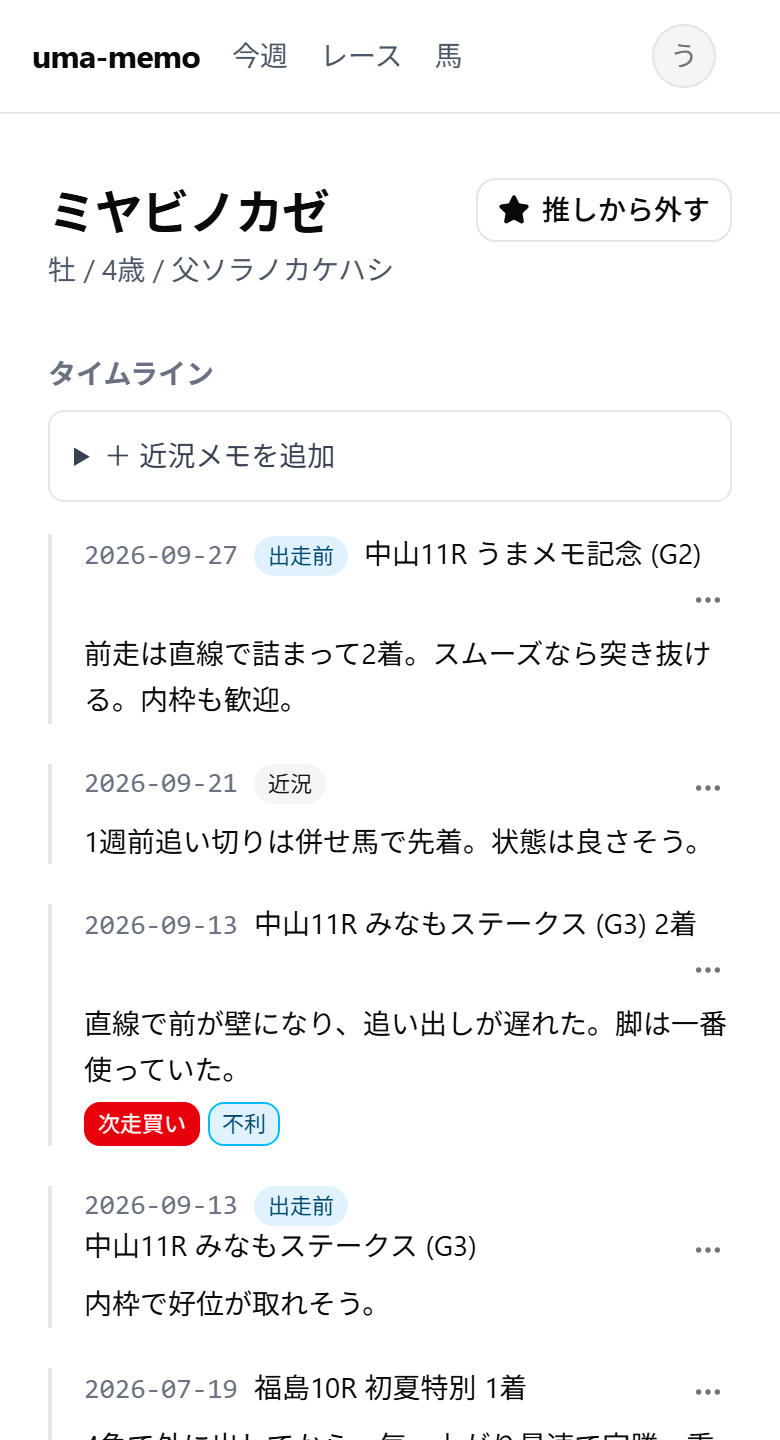
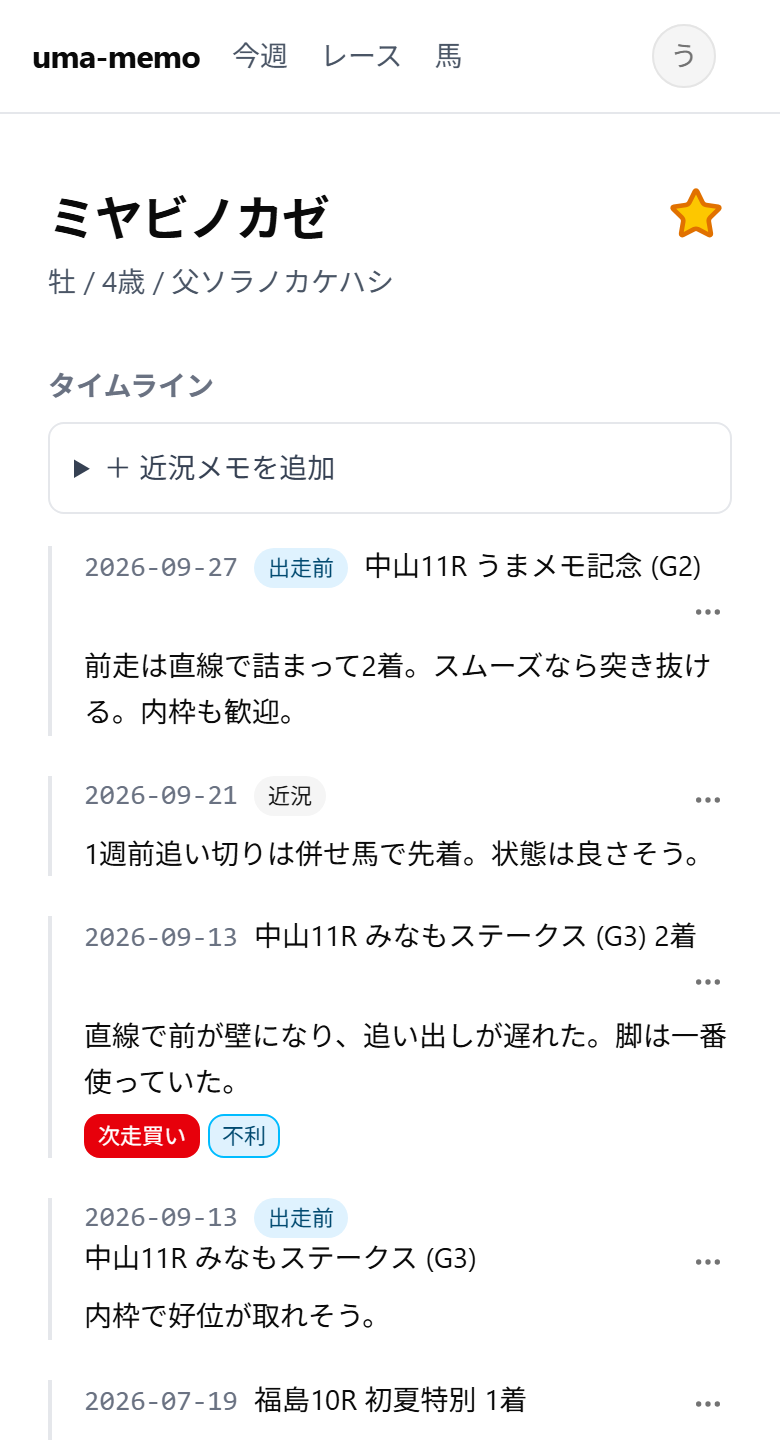
feat: 馬の画面の推しのボタンを黄色い星だけにする
文字を外して星のアイコンだけにし、推しなら黄色く塗った★、
そうでなければ黄色の輪郭の☆にする。名前は aria-label と title に残す。
色名を直に書く・ボタンに文字を添えない、の2つを design-system.md に例外として書いた。

diff --git a/src/routes/horses/[id]/+page.svelte b/src/routes/horses/[id]/+page.svelte
@@ -40,7 +40,10 @@
 	<div class="flex flex-wrap items-center justify-between gap-x-4 gap-y-2">
 		<h1 class="text-2xl font-bold tracking-tight">{data.horse.name}</h1>
 		<!-- 推しは本人だけのもの（誰が何を推しているかは他人に見えない）。押したボタンが次の状態を送るので、
-		     二重に押しても行き来しない。星の塗りで今の状態を、文言で押すと何が起きるかを出す。 -->
+		     二重に押しても行き来しない。
+		     **星だけのボタンにしている**（文字を添えない。色も色名を直に書く。design-system.md 第6章「例外 — 推しの星」）。
+		     今の状態は星の塗り（推しなら★、そうでなければ☆）で、押すと何が起きるかは読み上げと hover の名前
+		     （aria-label / title）で出す。輪郭は白い地に 3:1（WCAG 1.4.11）に届く amber-600、塗りは yellow-400。 -->
 		<form
 			method="POST"
 			action="?/favorite"
@@ -67,9 +70,19 @@
 			}}
 		>
 			<input type="hidden" name="favorite" value={data.favorite ? '0' : '1'} />
-			<Button type="submit" variant="outline" aria-disabled={favoritePending}>
-				<Star class={data.favorite ? 'fill-current' : ''} aria-hidden="true" />
-				{favoritePending ? '切り替え中…' : data.favorite ? '推しから外す' : '推しにする'}
+			<Button
+				type="submit"
+				variant="ghost"
+				size="icon-lg"
+				aria-label={data.favorite ? '推しから外す' : '推しにする'}
+				title={data.favorite ? '推しから外す' : '推しにする'}
+				aria-disabled={favoritePending}
+				class="aria-disabled:opacity-50"
+			>
+				<Star
+					class="size-7 text-amber-600 {data.favorite ? 'fill-yellow-400' : ''}"
+					aria-hidden="true"
+				/>
 			</Button>
 		</form>
 	</div>

diff --git a/e2e/screens.ts b/e2e/screens.ts
@@ -296,9 +296,9 @@ export const SCREENS: Screen[] = [
 		}
 	},
 	{ name: 'horses', path: '/horses', auth: true },
-	// 推しの馬。名前の右に「推しから外す」（星が塗られる）。
+	// 推しの馬。名前の右に黄色く塗った★（押すと推しから外す）。
 	{ name: 'horse-timeline', path: `/horses/${HORSE_ID}`, auth: true },
-	// 推しでない馬。「推しにする」（星は輪郭だけ）。
+	// 推しでない馬。黄色の輪郭だけの☆（押すと推しにする）。
 	{ name: 'horse-not-favorite', path: `/horses/${TOGGLE_FAVORITE_HORSE_ID}`, auth: true },
 	{
 		// 共有と削除は `⋯` に畳んである。共有中の近況メモのメニューを開いた状態。

diff --git a/src/routes/+page.svelte b/src/routes/+page.svelte
@@ -159,7 +159,7 @@
 			{#if data.favorites.runs.length === 0 && data.favorites.idle.length === 0}
 				<p class="mt-2 text-sm text-muted-foreground">
 					<a href={resolve('/horses')} class="underline">馬</a>
-					の画面で「推しにする」を押すと、その馬の出走予定がここに並びます。
+					の画面で星のボタンを押すと、その馬の出走予定がここに並びます。
 				</p>
 			{:else}
 				{#if data.favorites.runs.length === 0}

diff --git a/e2e/favorites.e2e.ts b/e2e/favorites.e2e.ts
@@ -37,7 +37,7 @@ test('推しがいなければ、どこで推しにするかを案内する', as
 	await login(page, 'admin');
 	await page.goto('/');
 
-	await expect(favorites(page)).toContainText('の画面で「推しにする」を押すと');
+	await expect(favorites(page)).toContainText('の画面で星のボタンを押すと');
 	await expect(favorites(page).getByRole('link', { name: '馬' })).toHaveAttribute(
 		'href',
 		'/horses'

diff --git a/docs/product.md b/docs/product.md
@@ -729,7 +729,7 @@ WHERE id = ?1 AND visibility = 'unlisted';
 
 ### `/` — 推しの出走予定
 
-馬の画面（`/horses/[id]`）で「推しにする」を押した馬の、**まだ走り終えていない出走**を早い順に並べる。
+馬の画面（`/horses/[id]`）で星のボタンを押して推しにした馬の、**まだ走り終えていない出走**を早い順に並べる。
 注目馬（今週・自分の札から組む）のすぐ下に置く。
 
 - **今週に限らない。** 推しを追う理由は「次どこに出るか」なので、先に登録した重賞（枠だけ先に入れる → [data/README.md](../data/README.md)）まで出す
@@ -908,7 +908,8 @@ Svelte はテキストエリアを `.value` で更新するので `defaultValue`
 - 出走は全ユーザー共通のマスタなので、**誰が見ても同じ**。メモだけが viewer で絞られる
 - まだ日が来ていない出走は `[出走予定]` として着順を出さない。
   当日は「予定」にしない（朝は予定でも、走り終えた夕方には予定ではない）
-- 馬名の右に「推しにする」／「推しから外す」。押したボタンが次の状態を送る（二重に押しても行き来しない）。
+- 馬名の右に星のボタン（文字なし）。推しなら黄色く塗った★、そうでなければ黄色の輪郭だけの☆。
+  押すと推しにする／推しから外す（名前は読み上げと hover で出す）。押したボタンが次の状態を送る（二重に押しても行き来しない）。
   推しは本人だけのもので、マスタの馬には何も書かないので、admin でなくても押せる。
   推しの出走予定はダッシュボードに出る（→ `/` — 推しの出走予定）
 
